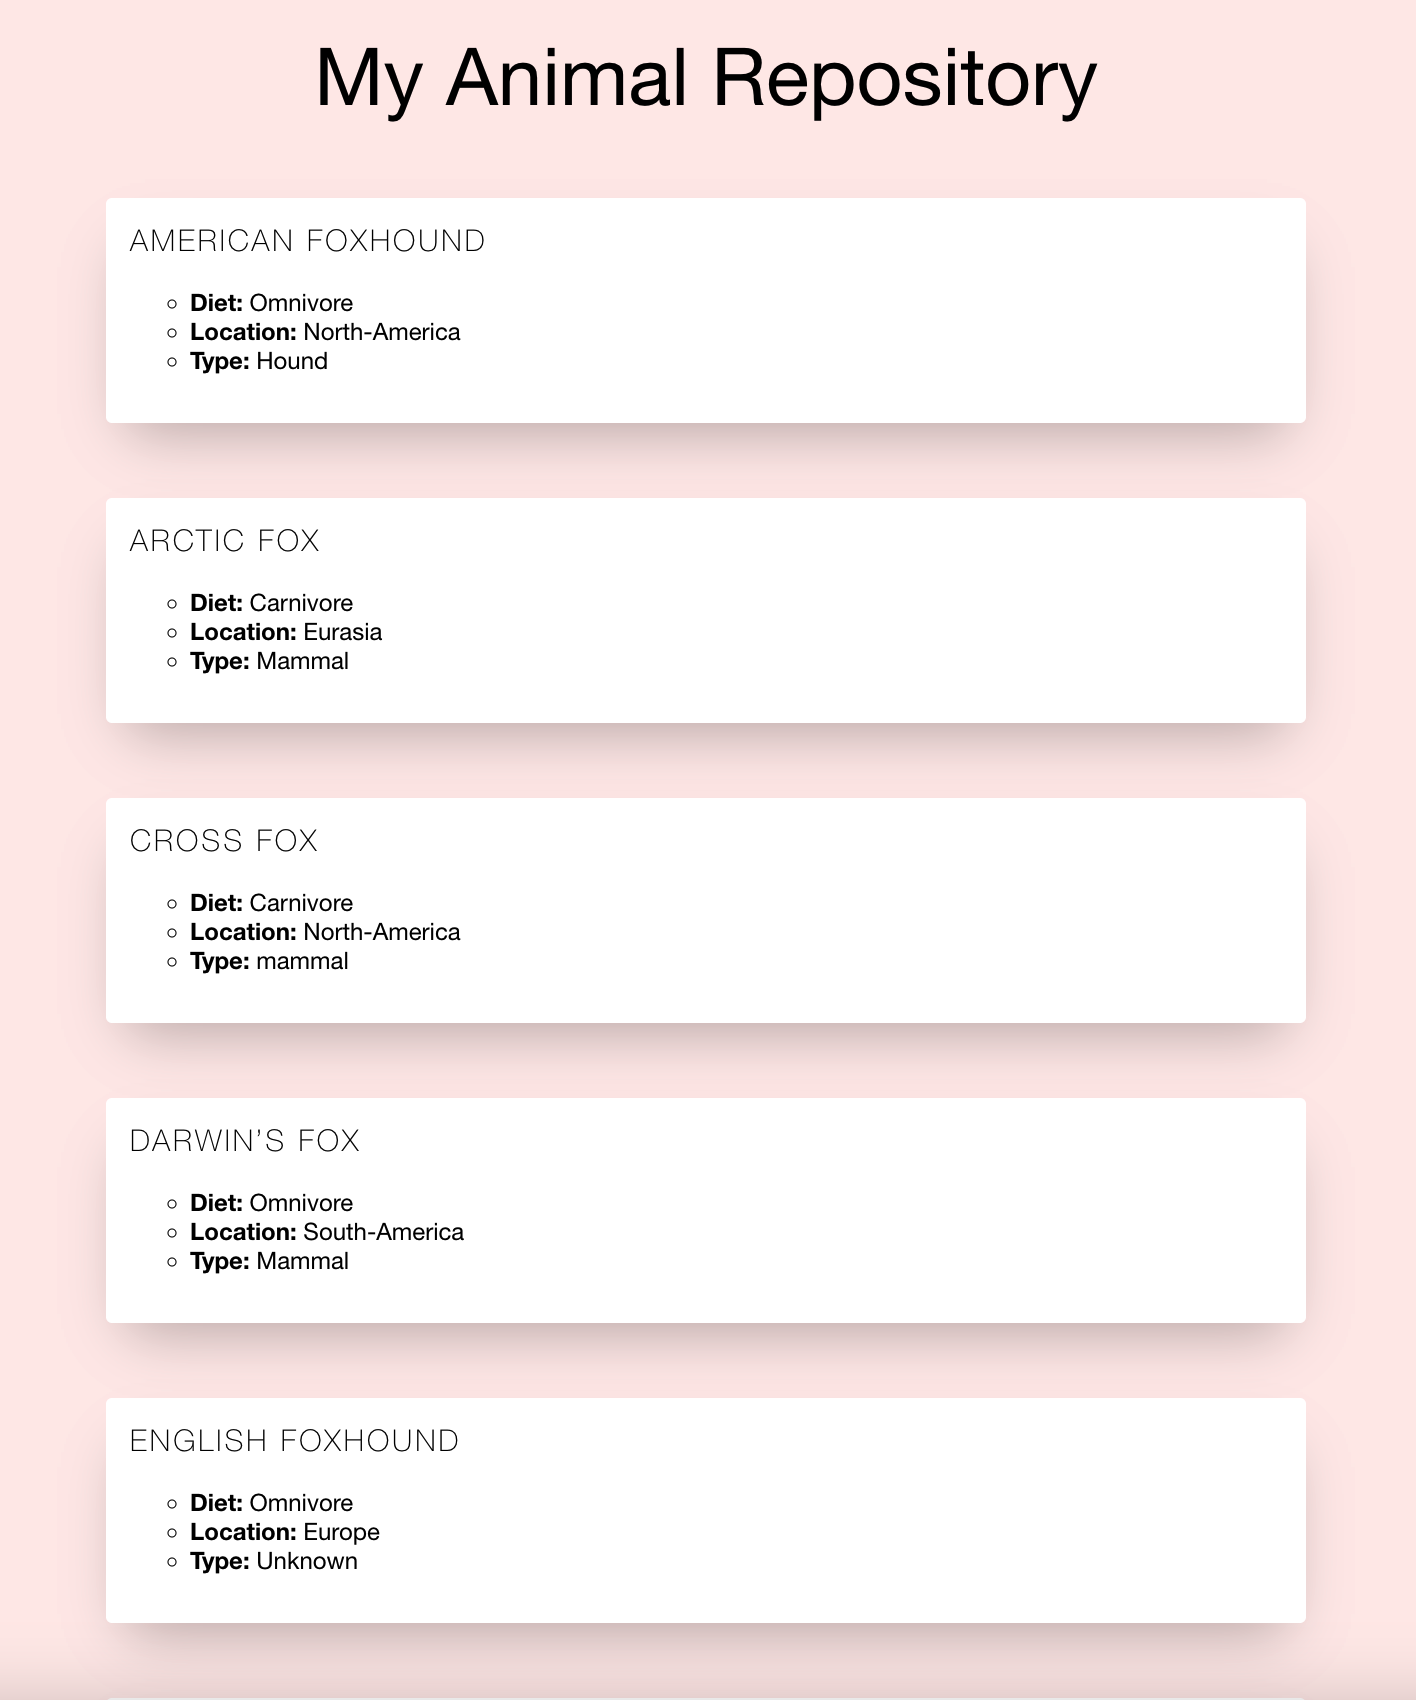
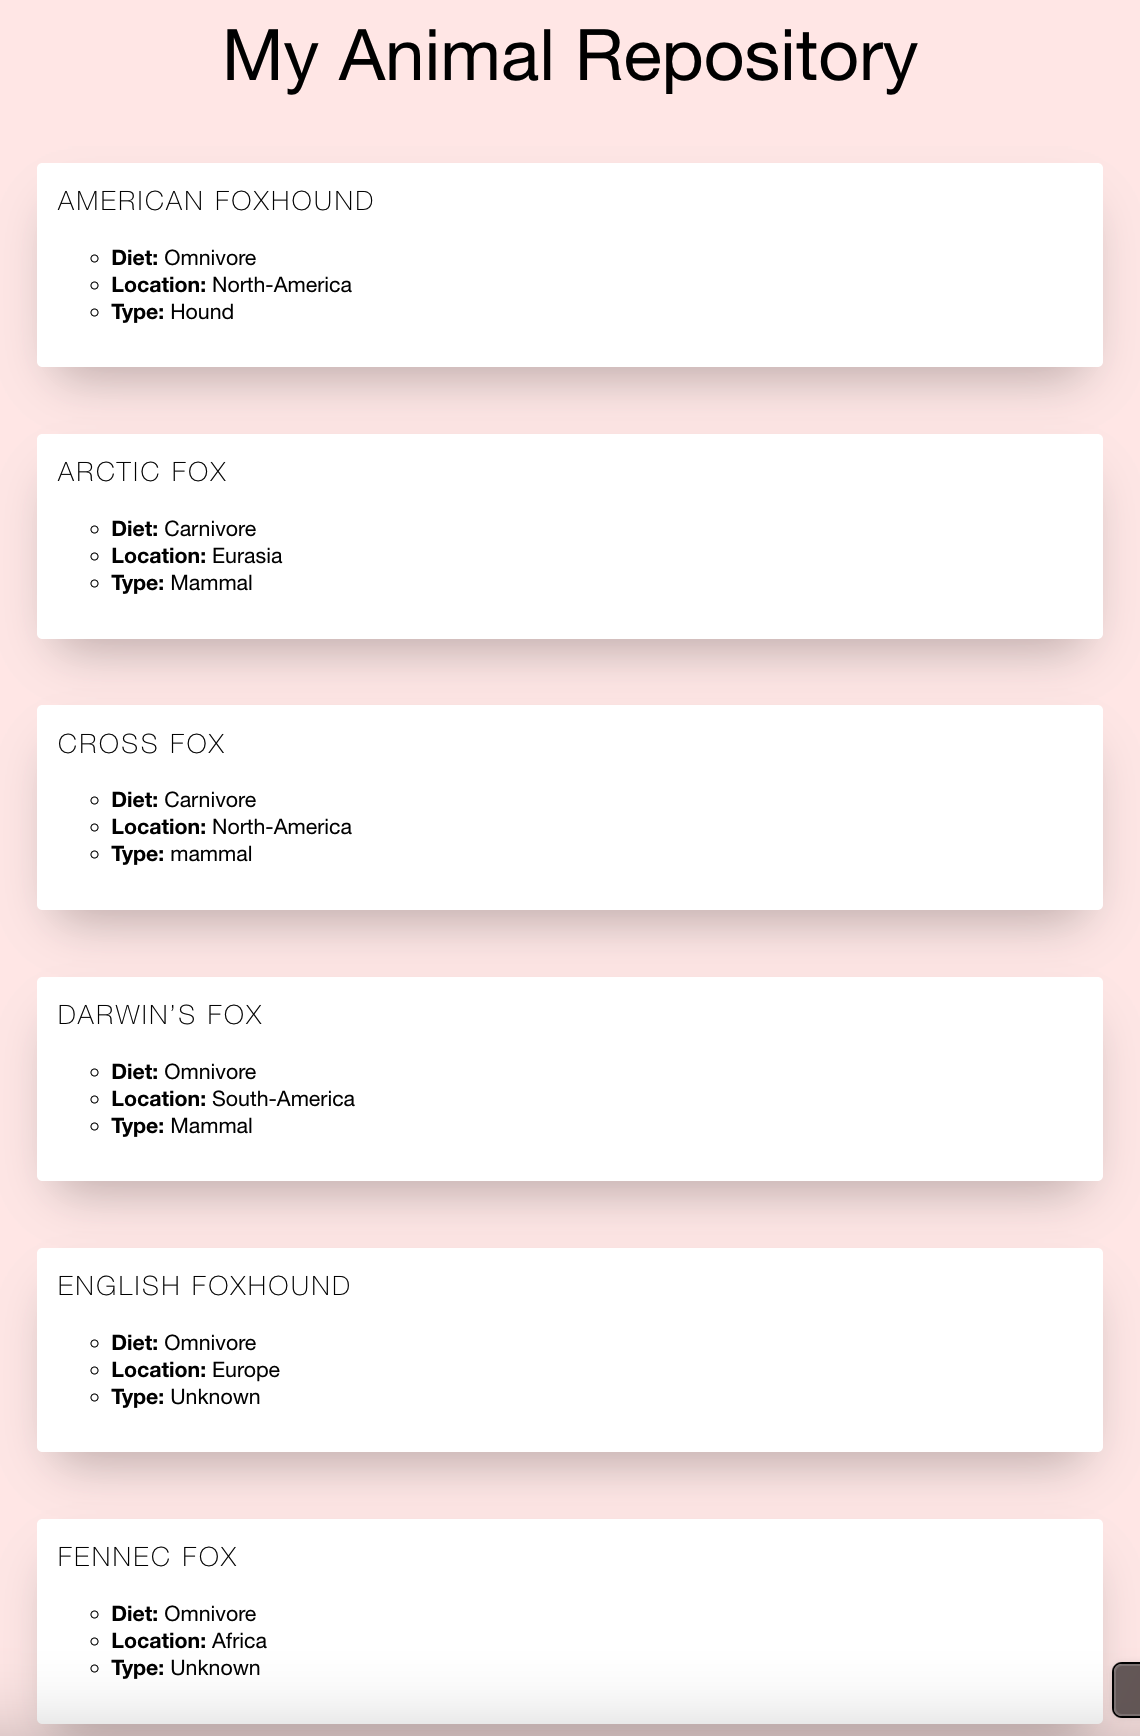
Added  requirements.txt, updated README.md, updated assets/my_animal_screenshot.png

diff --git a/animals.html b/animals.html
@@ -82,7 +82,216 @@
 <body>
     <h1>My Animal Repository</h1>
         <ul class="cards">
-            <h2>The animal 'dada' doesn't exist.</h2>
+            
+	<li class='cards__item'>
+		<div class='card__title'>American Foxhound</div>
+		<p class='card__text'>
+			<ul>
+				<li><strong>Diet:</strong> Omnivore</li>
+				<li><strong>Location:</strong> North-America</li>
+				<li><strong>Type:</strong> Hound</li>
+			</ul>
+		</p>
+	</li>
+
+	<li class='cards__item'>
+		<div class='card__title'>Arctic Fox</div>
+		<p class='card__text'>
+			<ul>
+				<li><strong>Diet:</strong> Carnivore</li>
+				<li><strong>Location:</strong> Eurasia</li>
+				<li><strong>Type:</strong> Mammal</li>
+			</ul>
+		</p>
+	</li>
+
+	<li class='cards__item'>
+		<div class='card__title'>Cross Fox</div>
+		<p class='card__text'>
+			<ul>
+				<li><strong>Diet:</strong> Carnivore</li>
+				<li><strong>Location:</strong> North-America</li>
+				<li><strong>Type:</strong> mammal</li>
+			</ul>
+		</p>
+	</li>
+
+	<li class='cards__item'>
+		<div class='card__title'>Darwin’s fox</div>
+		<p class='card__text'>
+			<ul>
+				<li><strong>Diet:</strong> Omnivore</li>
+				<li><strong>Location:</strong> South-America</li>
+				<li><strong>Type:</strong> Mammal</li>
+			</ul>
+		</p>
+	</li>
+
+	<li class='cards__item'>
+		<div class='card__title'>English Foxhound</div>
+		<p class='card__text'>
+			<ul>
+				<li><strong>Diet:</strong> Omnivore</li>
+				<li><strong>Location:</strong> Europe</li>
+				<li><strong>Type:</strong> Unknown</li>
+			</ul>
+		</p>
+	</li>
+
+	<li class='cards__item'>
+		<div class='card__title'>Fennec Fox</div>
+		<p class='card__text'>
+			<ul>
+				<li><strong>Diet:</strong> Omnivore</li>
+				<li><strong>Location:</strong> Africa</li>
+				<li><strong>Type:</strong> Unknown</li>
+			</ul>
+		</p>
+	</li>
+
+	<li class='cards__item'>
+		<div class='card__title'>Fox</div>
+		<p class='card__text'>
+			<ul>
+				<li><strong>Diet:</strong> Carnivore</li>
+				<li><strong>Location:</strong> Africa</li>
+				<li><strong>Type:</strong> Mammal</li>
+			</ul>
+		</p>
+	</li>
+
+	<li class='cards__item'>
+		<div class='card__title'>Fox Snakes</div>
+		<p class='card__text'>
+			<ul>
+				<li><strong>Diet:</strong> Carnivore</li>
+				<li><strong>Location:</strong> North-America</li>
+				<li><strong>Type:</strong> Unknown</li>
+			</ul>
+		</p>
+	</li>
+
+	<li class='cards__item'>
+		<div class='card__title'>Fox Squirrel</div>
+		<p class='card__text'>
+			<ul>
+				<li><strong>Diet:</strong> Omnivore</li>
+				<li><strong>Location:</strong> Central-America</li>
+				<li><strong>Type:</strong> rodent</li>
+			</ul>
+		</p>
+	</li>
+
+	<li class='cards__item'>
+		<div class='card__title'>Fox Terrier</div>
+		<p class='card__text'>
+			<ul>
+				<li><strong>Diet:</strong> Omnivore</li>
+				<li><strong>Location:</strong> Europe</li>
+				<li><strong>Type:</strong> Unknown</li>
+			</ul>
+		</p>
+	</li>
+
+	<li class='cards__item'>
+		<div class='card__title'>Golden-Crowned Flying Fox</div>
+		<p class='card__text'>
+			<ul>
+				<li><strong>Diet:</strong> Herbivore</li>
+				<li><strong>Location:</strong> Asia</li>
+				<li><strong>Type:</strong> Unknown</li>
+			</ul>
+		</p>
+	</li>
+
+	<li class='cards__item'>
+		<div class='card__title'>Gray Fox</div>
+		<p class='card__text'>
+			<ul>
+				<li><strong>Diet:</strong> Omnivore</li>
+				<li><strong>Location:</strong> Central-America</li>
+				<li><strong>Type:</strong> Mammal</li>
+			</ul>
+		</p>
+	</li>
+
+	<li class='cards__item'>
+		<div class='card__title'>Kit Fox</div>
+		<p class='card__text'>
+			<ul>
+				<li><strong>Diet:</strong> Omnivore</li>
+				<li><strong>Location:</strong> Central-America</li>
+				<li><strong>Type:</strong> mammal</li>
+			</ul>
+		</p>
+	</li>
+
+	<li class='cards__item'>
+		<div class='card__title'>Marble Fox</div>
+		<p class='card__text'>
+			<ul>
+				<li><strong>Diet:</strong> Omnivore</li>
+				<li><strong>Location:</strong> North-America</li>
+				<li><strong>Type:</strong> Mammal</li>
+			</ul>
+		</p>
+	</li>
+
+	<li class='cards__item'>
+		<div class='card__title'>Red Fox</div>
+		<p class='card__text'>
+			<ul>
+				<li><strong>Diet:</strong> Omnivore</li>
+				<li><strong>Location:</strong> Africa</li>
+				<li><strong>Type:</strong> Unknown</li>
+			</ul>
+		</p>
+	</li>
+
+	<li class='cards__item'>
+		<div class='card__title'>Smooth Fox Terrier</div>
+		<p class='card__text'>
+			<ul>
+				<li><strong>Diet:</strong> Omnivore</li>
+				<li><strong>Location:</strong> Europe</li>
+				<li><strong>Type:</strong> Unknown</li>
+			</ul>
+		</p>
+	</li>
+
+	<li class='cards__item'>
+		<div class='card__title'>Tibetan Fox</div>
+		<p class='card__text'>
+			<ul>
+				<li><strong>Diet:</strong> Carnivore</li>
+				<li><strong>Location:</strong> Asia</li>
+				<li><strong>Type:</strong> Mammal</li>
+			</ul>
+		</p>
+	</li>
+
+	<li class='cards__item'>
+		<div class='card__title'>Toy Fox Terrier</div>
+		<p class='card__text'>
+			<ul>
+				<li><strong>Diet:</strong> Omnivore</li>
+				<li><strong>Location:</strong> North-America</li>
+				<li><strong>Type:</strong> Unknown</li>
+			</ul>
+		</p>
+	</li>
+
+	<li class='cards__item'>
+		<div class='card__title'>Wire Fox Terrier</div>
+		<p class='card__text'>
+			<ul>
+				<li><strong>Diet:</strong> Omnivore</li>
+				<li><strong>Location:</strong> Europe</li>
+				<li><strong>Type:</strong> Unknown</li>
+			</ul>
+		</p>
+	</li>
+
         </ul>
 </body>
 </html>

diff --git a/data_fetcher.py b/data_fetcher.py
@@ -5,7 +5,6 @@ from dotenv import load_dotenv
 load_dotenv()
 
 
-
 API_KEY = os.getenv('API_KEY')
 #print(API_KEY)
 REQUEST_URL = "https://api.api-ninjas.com/v1/animals?name="

diff --git a/README.md b/README.md
@@ -1,32 +1,32 @@
 # My Animal Repository
 
-This project is a simple Python-based script that generates a dynamic HTML page showcasing a repository of animals. The information about animals is retrieved from a JSON file and formatted into a visually appealing HTML file. The project also demonstrates basic file handling, HTML templating, and Python programming concepts.
+This project is a simple Python-based script that generates a dynamic HTML page showcasing a repository of animals. The information about animals is retrieved from an API and formatted into a visually appealing HTML file. The project also demonstrates basic file handling, HTML templating, API interaction, and Python programming concepts.
 
 ## Features
 
 - Dynamic generation of animal information in an HTML format.
-- Utilizes Python for reading JSON data and processing it.
+- Utilizes Python to fetch data from an external API and process it.
 - Stylish and clean presentation of animal data using HTML/CSS.
 - Replaceable placeholder in the template for flexible updates.
 
 ## How It Works
 
 1. **Data Source**: 
-   - Animal information is stored in a `JSON` file (`animals_data.json`).
-   - Each animal includes details such as name, diet, location, and type.
+   - Animal information is retrieved dynamically from the [Ninja APIs](https://api.api-ninjas.com/v1/animals).
+   - API responses include details such as name, diet, location, and type.
 
 2. **HTML Template**: 
    - A pre-existing `HTML` template file (`animals_template.html`) is used, with a placeholder `__REPLACE_ANIMALS_INFO__` for dynamic content.
 
 3. **Python Script**:
-   - Reads data from the `JSON` file.
-   - Formats the data into structured HTML blocks.
+   - Fetches data from the API using HTTP requests.
+   - Formats the API responses into structured HTML blocks.
    - Replaces the placeholder in the template with the formatted data.
    - Outputs a new HTML file (`animals.html`) for display in a browser.
 
 ## Project Files
 
-- **`animals_data.json`**: The JSON file containing data about the animals.
+- **`data_fetcher.py`**: Contains functions to interact with the API and fetch animal data.
 - **`animals_template.html`**: The HTML template file with a placeholder for dynamic content.
 - **`animals_web_generator.py`**: Python script to generate the HTML file.
 
